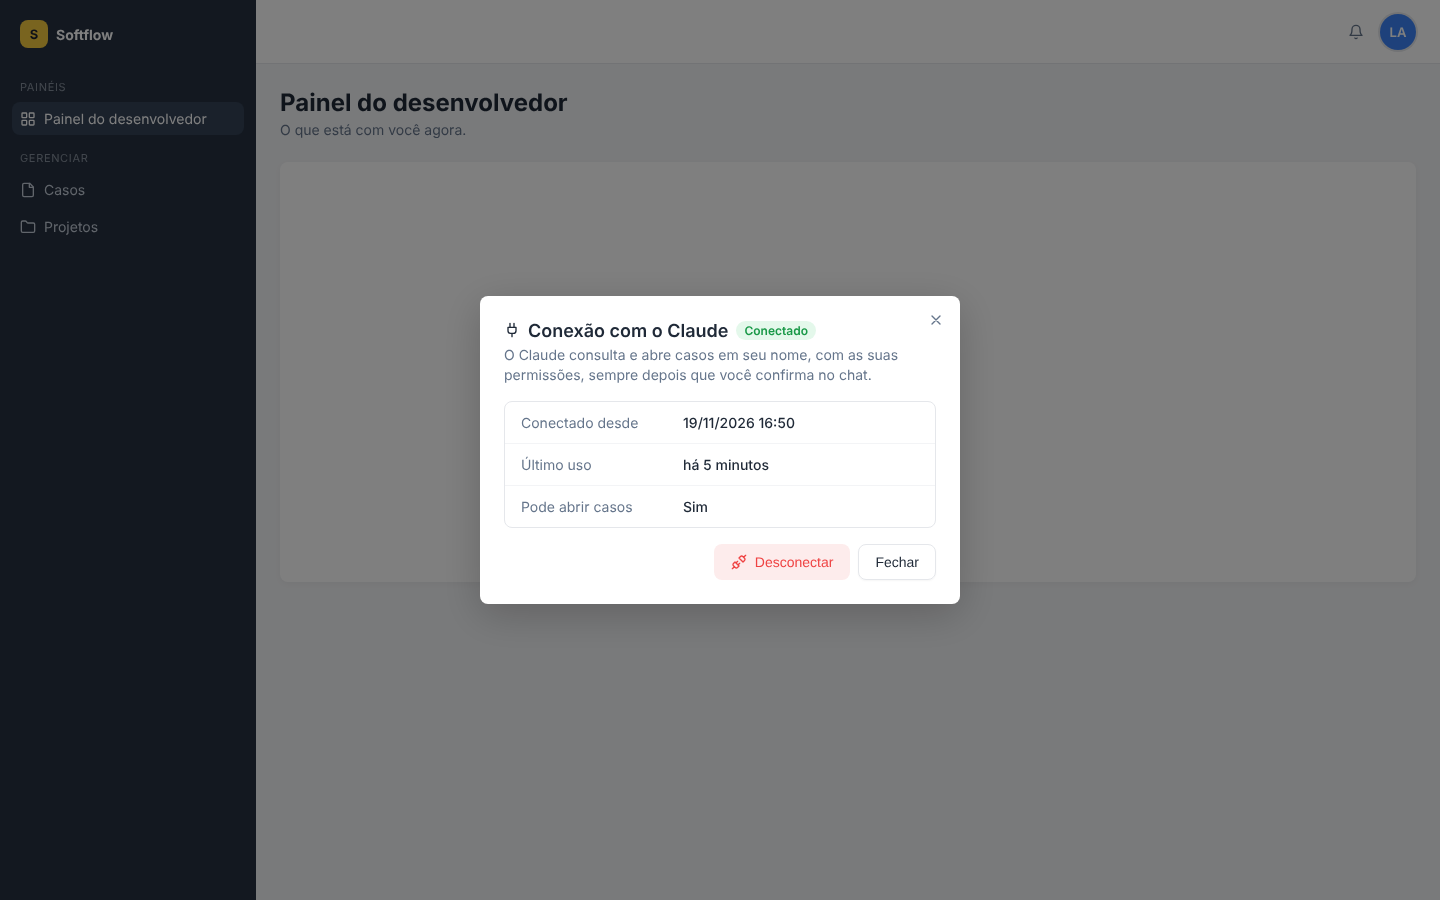
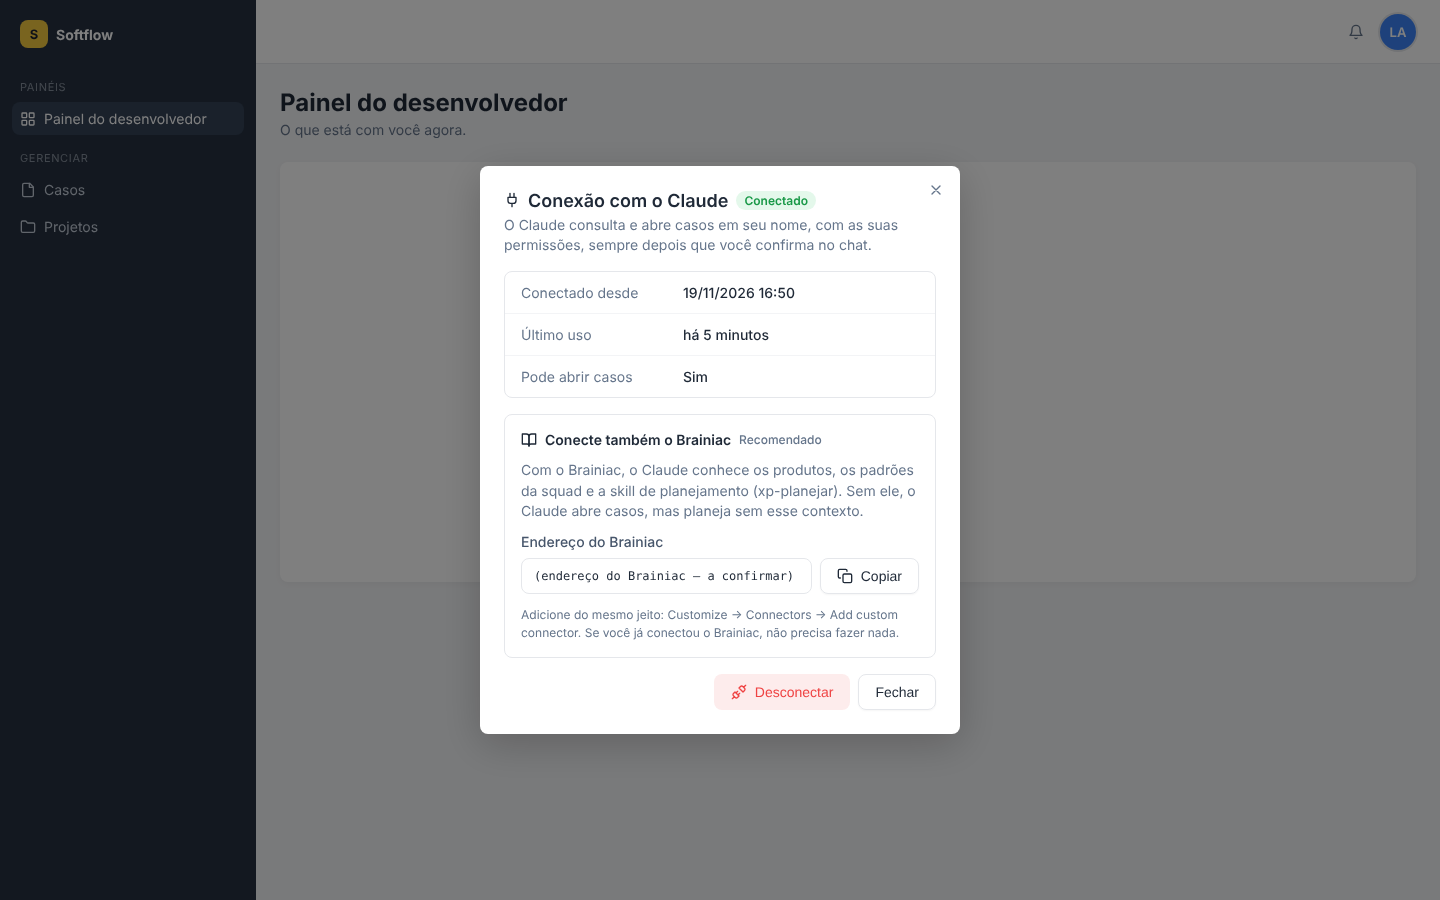
docs(conector-claude): próxima mudança planejada — contexto do Brainiac para quem conecta
Instruções do servidor MCP e softflow_eu apontam a skill xp-planejar do
catálogo do Brainiac; o modal "Conexão com o Claude" ganha o bloco
"Conecte também o Brainiac" (endereço por BRAINIAC_MCP_URL). Decisões
#16 a #18, protótipo e capturas 05, 07 e 09. Registra o teste no Claude
de verdade (caso 104203), move o conector para Em produção no status e
troca o domínio antigo do protótipo.

Claude-Session: https://claude.ai/code/session_01GaQZ7CaVWoarm8kGJnLeJC

Changed region(s): [[0.3125, 0.1867, 0.6875, 0.84]]

diff --git a/docs/conector-claude/prototipo/conector-claude-prototipo.html b/docs/conector-claude/prototipo/conector-claude-prototipo.html
@@ -5,7 +5,8 @@
 <meta name="viewport" content="width=device-width, initial-scale=1">
 <title>Softflow — Conector do Claude (protótipo)</title>
 <!--
-  Protótipo de planejamento (docs/conector-claude). Referência de estrutura e hierarquia.
+  Protótipo de planejamento (docs/conector-claude). 2026-11-25: bloco "Conecte também o Brainiac"
+  (decisão #17). O endereço do Brainiac aqui é um marcador: o real vem de BRAINIAC_MCP_URL (decisão #18). Referência de estrutura e hierarquia.
   As cores abaixo espelham os tokens de app/globals.css só para visualizar; no código usar as
   classes de token (bg-primary, text-text-primary, login-*, brand-yellow...). Nunca copiar hex.
 -->
@@ -118,6 +119,10 @@
   .url input{flex:1;height:36px;border:1px solid var(--bi);border-radius:8px;padding:0 12px;font-family:ui-monospace,monospace;font-size:12px;color:var(--tp);background:transparent}
   .note{font-size:12px;color:var(--ts);line-height:1.45;margin:0}
   .sk{background:var(--muted);border-radius:6px;height:14px}
+  .rec{border:1px solid var(--bi);border-radius:8px;padding:16px;display:flex;flex-direction:column;gap:12px}
+  .rec .h{display:flex;align-items:center;gap:8px;font-weight:600;color:var(--tp)}
+  .rec .tx{margin:0;color:var(--ts);line-height:1.45}
+  .dlg{max-height:calc(100vh - 32px);overflow:auto}
 
   /* mobile */
   @media (max-width:1023px){
@@ -155,6 +160,7 @@
   <symbol id="copy" viewBox="0 0 24 24"><rect x="9" y="9" width="13" height="13" rx="2"/><path d="M5 15H4a2 2 0 0 1-2-2V4a2 2 0 0 1 2-2h9a2 2 0 0 1 2 2v1"/></symbol>
   <symbol id="unplug" viewBox="0 0 24 24"><path d="m19 5 3-3M2 22l3-3M6.3 20.3a2.4 2.4 0 0 0 3.4 0L12 18l-6-6-2.3 2.3a2.4 2.4 0 0 0 0 3.4ZM7.5 13.5 10 11M10.5 16.5 13 14M12 6l6 6 2.3-2.3a2.4 2.4 0 0 0 0-3.4l-2.6-2.6a2.4 2.4 0 0 0-3.4 0Z"/></symbol>
   <symbol id="grid" viewBox="0 0 24 24"><rect x="3" y="3" width="7" height="7" rx="1"/><rect x="14" y="3" width="7" height="7" rx="1"/><rect x="3" y="14" width="7" height="7" rx="1"/><rect x="14" y="14" width="7" height="7" rx="1"/></symbol>
+  <symbol id="book" viewBox="0 0 24 24"><path d="M2 3h6a4 4 0 0 1 4 4v14a3 3 0 0 0-3-3H2z"/><path d="M22 3h-6a4 4 0 0 0-4 4v14a3 3 0 0 1 3-3h7z"/></symbol>
   <symbol id="file" viewBox="0 0 24 24"><path d="M14.5 2H6a2 2 0 0 0-2 2v16a2 2 0 0 0 2 2h12a2 2 0 0 0 2-2V7.5L14.5 2z"/><path d="M14 2v6h6"/></symbol>
   <symbol id="folder" viewBox="0 0 24 24"><path d="M4 20h16a2 2 0 0 0 2-2V8a2 2 0 0 0-2-2h-7.9a2 2 0 0 1-1.7-.9l-.8-1.2A2 2 0 0 0 7.9 3H4a2 2 0 0 0-2 2v13a2 2 0 0 0 2 2Z"/></symbol>
 </svg>
@@ -278,6 +284,15 @@
       <div class="row"><span class="k">Último uso</span><span class="v">há 5 minutos</span></div>
       <div class="row"><span class="k">Pode abrir casos</span><span class="v">Sim</span></div>
     </div>
+    <div class="rec" aria-labelledby="t-rec-c">
+      <div class="h" id="t-rec-c"><svg class="i"><use href="#book"/></svg>Conecte também o Brainiac <span style="font-weight:500;color:var(--ts);font-size:12px">Recomendado</span></div>
+      <p class="tx">Com o Brainiac, o Claude conhece os produtos, os padrões da squad e a skill de planejamento (xp-planejar). Sem ele, o Claude abre casos, mas planeja sem esse contexto.</p>
+      <div>
+        <div style="font-weight:500;color:var(--tl);margin-bottom:8px">Endereço do Brainiac</div>
+        <div class="url"><input readonly value="(endereço do Brainiac — a confirmar)" aria-label="Endereço do Brainiac"><button class="b b-out" aria-label="Copiar endereço do Brainiac"><svg class="i"><use href="#copy"/></svg>Copiar</button></div>
+      </div>
+      <p class="note">Adicione do mesmo jeito: Customize → Connectors → Add custom connector. Se você já conectou o Brainiac, não precisa fazer nada.</p>
+    </div>
     <div class="foot">
       <button class="b b-dsoft"><svg class="i"><use href="#unplug"/></svg>Desconectar</button>
       <button class="b b-out">Fechar</button>
@@ -310,12 +325,21 @@
     <ol class="steps">
       <li><span class="num">1</span><span>No Claude, abra <b>Customize → Connectors</b> e clique em <b>Add custom connector</b>.</span></li>
       <li><span class="num">2</span><span>Cole o endereço abaixo e clique em <b>Add</b>.</span></li>
-      <li><span class="num">3</span><span>Confira seus dados no Softflow e clique em <b>Permitir acesso</b>.</span></li>
+      <li><span class="num">3</span><span>Confira seus dados no Softflow, digite sua senha e clique em <b>Permitir acesso</b>.</span></li>
     </ol>
     <div>
       <div style="font-weight:500;color:var(--tl);margin-bottom:8px">Endereço do conector</div>
-      <div class="url"><input readonly value="https://softflow.softcom.services/api/mcp" aria-label="Endereço do conector"><button class="b b-out" aria-label="Copiar endereço"><svg class="i"><use href="#copy"/></svg>Copiar</button></div>
+      <div class="url"><input readonly value="https://softflow.hostsoftcom.cloud/api/mcp" aria-label="Endereço do conector"><button class="b b-out" aria-label="Copiar endereço"><svg class="i"><use href="#copy"/></svg>Copiar</button></div>
       <p class="note" style="margin-top:8px">Funciona em contas Pro e Max. No plano Free, o Claude aceita só um conector personalizado.</p>
+    </div>
+    <div class="rec" aria-labelledby="t-rec-s">
+      <div class="h" id="t-rec-s"><svg class="i"><use href="#book"/></svg>Conecte também o Brainiac <span style="font-weight:500;color:var(--ts);font-size:12px">Recomendado</span></div>
+      <p class="tx">Com o Brainiac, o Claude conhece os produtos, os padrões da squad e a skill de planejamento (xp-planejar). Sem ele, o Claude abre casos, mas planeja sem esse contexto.</p>
+      <div>
+        <div style="font-weight:500;color:var(--tl);margin-bottom:8px">Endereço do Brainiac</div>
+        <div class="url"><input readonly value="(endereço do Brainiac — a confirmar)" aria-label="Endereço do Brainiac"><button class="b b-out" aria-label="Copiar endereço do Brainiac"><svg class="i"><use href="#copy"/></svg>Copiar</button></div>
+      </div>
+      <p class="note">Adicione do mesmo jeito: Customize → Connectors → Add custom connector. Se você já conectou o Brainiac, não precisa fazer nada.</p>
     </div>
     <div class="foot"><button class="b b-out">Fechar</button></div>
   </div>

diff --git a/docs/conector-claude/README.md b/docs/conector-claude/README.md
@@ -3,8 +3,12 @@
 > **Estado: em produção desde 2026-11-19** (`https://softflow.hostsoftcom.cloud/api/mcp`).
 > Conferido no domínio público: metadados, `401` com `WWW-Authenticate`, registro do cliente,
 > token endpoint com o banco de produção e a tela de autorização (cabeçalhos e volta pelo login).
-> **Falta o teste no Claude de verdade** (conectar com a conta de alguém e abrir um caso). Decisões
-> em [`decisoes.md`](decisoes.md); protótipo em [`prototipo/`](prototipo/).
+> Testado no Claude de verdade em 2026-11-19 (caso 104203, aberto pelo conector). Decisões em
+> [`decisoes.md`](decisoes.md); protótipo em [`prototipo/`](prototipo/).
+>
+> **Há uma [próxima mudança planejada](#próxima-mudança-planejada-contexto-do-brainiac-para-quem-conecta)**
+> (2026-11-25): recomendar o Brainiac no modal e apontar a skill `xp-planejar` nas instruções do
+> servidor. Implementar com `/implementar conector-claude`.
 
 ## O que é
 
@@ -39,6 +43,95 @@ caso **não planejado**.
 
 No Softflow, a conexão aparece e é desfeita pelo menu do usuário → **Claude** → modal
 **Conexão com o Claude** (decisão #10).
+
+## Próxima mudança planejada: contexto do Brainiac para quem conecta
+
+> **Estado: planejado** (chat de planejamento, 2026-11-25). Decisões #16 a #18 em
+> [`decisoes.md`](decisoes.md); protótipo atualizado em [`prototipo/`](prototipo/) (capturas
+> `05`, `07` e `09`).
+
+### Problema
+
+Quem conecta só o Softflow consegue abrir caso, mas o Claude dela não conhece os produtos, os
+padrões da squad nem o jeito de planejar e escrever o caso. Esse contexto está no Brainiac: as notas
+dos produtos e, a partir de agora, a skill **`xp-planejar`** no catálogo de skills de Engenharia
+(proposta enviada em 2026-11-25, `e95ba449-2946-4520-8fdd-95c977fe2941`, aguardando revisão e
+publicação). Cada pessoa usa conta pessoal do Claude (decisão #12), então não existe configuração
+central que entregue isso: cada uma precisa conectar o Brainiac, e o Claude precisa saber que deve
+ler a skill de lá.
+
+### O que muda
+
+1. **Instruções do servidor MCP** (`INSTRUCOES` em `lib/conector-claude/mcp/servidor.ts`), decisão
+   #16. Acrescentar ao texto atual, sem mexer nas três linhas que já existem:
+
+   ```text
+   Para planejar uma funcionalidade ou escrever o texto de um caso, use a skill xp-planejar do
+   catálogo do Brainiac: se as ferramentas do Brainiac estiverem na conversa, leia-a com
+   brainiac_skills_list (vault "engenharia", busca "xp-planejar") e brainiac_skill_read antes de
+   começar, e siga o passo 7 dela para abrir o caso. Se o Brainiac não estiver conectado, avise a
+   pessoa uma vez que o planejamento fica sem o contexto dos produtos e que ela pode conectá-lo
+   (o endereço está no Softflow, menu do usuário → Claude). Abrir um caso já planejado não depende
+   do Brainiac.
+   ```
+
+   Se a skill ainda não estiver publicada no catálogo, a busca volta vazia e o Claude segue com as
+   regras deste servidor; não há erro a tratar no Softflow.
+
+2. **`softflow_eu`** (decisão #16): depois de "Pode abrir casos: …", uma linha fixa
+   `Contexto dos produtos: conecte também o Brainiac e use a skill xp-planejar do catálogo dele.`
+   É o lembrete que o Claude vê mesmo quando o cliente não repassa as instruções do servidor.
+
+3. **Modal "Conexão com o Claude"** (`components/conector-claude/conexao-modal/index.tsx`), decisão
+   #17. Bloco novo **Recomendado: conecte também o Brainiac**, nos dois estados (conectado e sem
+   conexão), logo acima da linha de botões:
+   - quadro com borda (`rounded-lg border border-border-input p-4`, mesmo padrão do quadro de erro do
+     modal), ícone `BookOpen` (lucide) e o título **Conecte também o Brainiac**;
+   - texto: "Com o Brainiac, o Claude conhece os produtos, os padrões da squad e a skill de
+     planejamento (xp-planejar). Sem ele, o Claude abre casos, mas planeja sem esse contexto.";
+   - **Endereço do Brainiac** com o mesmo componente de endereço + **Copiar** do conector (extrair o
+     bloco atual de `SemConexao` para um componente `EnderecoCopiavel` reaproveitado pelos dois);
+   - nota: "Adicione do mesmo jeito: Customize → Connectors → Add custom connector. Se você já
+     conectou o Brainiac, não precisa fazer nada.";
+   - o Softflow não sabe se a pessoa conectou o Brainiac no Claude (decisão #17), então o bloco é
+     sempre igual, sem pílula de status.
+   - Sem cor nova: só tokens que o modal já usa (`border-border-input`, `text-text-primary`,
+     `text-text-secondary`, `text-text-label`, `bg-muted`).
+   - Mobile (390px): o bloco empilha como o resto do modal; o modal passa a rolar dentro do
+     `DialogContent` se a altura não couber (conferir com o estado "sem conexão", que é o mais alto).
+
+4. **Endereço do Brainiac por variável** (decisão #18): `BRAINIAC_MCP_URL` em `lib/conector-claude/config.ts`
+   (função `getBrainiacMcpUrl()`), exposto pelo `GET /api/db/claude-conexao` como
+   `enderecoBrainiac`. Sem a variável, o bloco aparece sem o endereço (só o texto e a nota) e o
+   Copiar some. Documentar a variável em [`deploy/`](../deploy/README.md#conector-do-claude-apimcp).
+
+5. **Protótipo**: o endereço antigo (`softflow.softcom.services`) do protótipo foi trocado pelo atual
+   (decisão #13) neste planejamento.
+
+### Fora do escopo
+
+- Detectar se a pessoa conectou o Brainiac (o Softflow não tem como saber; decisão #17).
+- Instalar a skill na conta da pessoa: ela é lida do catálogo do Brainiac pelo próprio Claude.
+- Publicar a `xp-planejar` no Brainiac: é revisão e publicação administrativa do Brainiac, fora deste
+  repositório.
+
+### Perguntas em aberto
+
+1. **(PO)** Qual é o endereço do servidor MCP do Brainiac que as pessoas cadastram no Claude? Vai
+   para `BRAINIAC_MCP_URL` no deploy. Enquanto não houver, o bloco aparece sem endereço (item 4).
+
+### Plano de implementação
+
+Um commit, na `dev`, escopo `(conector-claude)`:
+
+1. `BRAINIAC_MCP_URL` + `getBrainiacMcpUrl()`; `enderecoBrainiac` no `GET /api/db/claude-conexao` e
+   no tipo `ClaudeConexaoStatus`.
+2. `INSTRUCOES` e a linha do `softflow_eu`.
+3. `EnderecoCopiavel` e o bloco do Brainiac no modal, nos dois estados.
+4. Conferir: `npm run lint`, `npm run build`, modal nos dois estados com e sem `BRAINIAC_MCP_URL`
+   (desktop e 390px) e o texto novo do `softflow_eu` pelo cliente MCP do SDK.
+5. Ao concluir: integrar esta seção ao README no formato padrão (O que é / Ferramentas / Como fica
+   para quem usa), tirar o "Estado: planejado" e mover o item no status.
 
 ## Arquitetura
 
@@ -161,11 +254,13 @@ MCP do SDK, incluindo abertura simultânea sem duplicar; menu, modal e desconect
 
 Pendente:
 
-- Teste no Claude de verdade: adicionar o conector, autorizar com a senha, preparar e abrir um
-  caso de teste. Em produção já foram conferidos (2026-11-19) os metadados, o `401`, o registro
-  (cliente de teste "Claude (teste de produção)" criado em `oauth_clientes`), o token endpoint e a
-  tela de autorização até o login.
-- Ajustar o passo 7 da skill `planejar-softcom` para abrir o caso pelo conector (fora deste repo).
+- ~~Teste no Claude de verdade~~: feito em 2026-11-19 pelo usuário. O Claude conectado
+  identificou a pessoa (`softflow_eu`), resolveu produto, versão, projeto e dev pelo nome, mostrou a
+  prévia e, depois do ok, abriu o caso **104203** (produto Softflow, versão MELHORIA, projeto 3278);
+  a consulta pelo número confirmou o caso igual à prévia.
+- ~~Passo 7 da skill `planejar-softcom`~~: ajustado em 2026-11-25 (abre o caso pelo conector e, sem
+  ele, entrega o texto para colar). A mesma skill foi proposta ao catálogo do Brainiac como
+  `xp-planejar` (ver "Próxima mudança planejada").
 - O aviso "Claude desconectado" foi corrigido (`mutateAsync`) depois do teste e não foi reconferido.
 - Casos de teste criados na API de dev, para excluir: 104140, 104141, 104143.
 

diff --git a/docs/status-projeto-softflow.md b/docs/status-projeto-softflow.md
@@ -39,18 +39,10 @@ coberto.
 | Notificações no Discord | [`casos/`](casos/README.md), [`reports/`](reports/README.md) | Caso concluído (2026-08-24); opção de desativar por usuário (2026-08-24) |
 | Anexos no S3 da Softcom | [`camada-de-dados/`](camada-de-dados/README.md) | Troca de bucket (2026-10-07); aba de anexos (2026-10-07) |
 | Deploy na VPS (Swarm + GitHub Actions) | [`deploy/`](deploy/README.md) | Ambiente Docker (2026-08-14); doc ajustada (2026-10-13) |
+| Conector do Claude: abrir e consultar casos pelo chat (`/api/mcp`) | [`conector-claude/`](conector-claude/README.md) | Publicado (2026-11-19); teste ponta a ponta no Claude de verdade (2026-11-19): conexão, catálogos, prévia, abertura do caso 104203 e consulta |
 
 ## 🟡 Implementado, ainda não testado de ponta a ponta
 
-- **Conector do Claude: abrir casos pelo chat** (2026-11-19, em produção; teste no Claude pendente). Servidor
-  MCP `/api/mcp` com OAuth próprio (metadados, DCR, `/oauth/autorizar` com senha, token com PKCE e
-  rotação), cinco ferramentas (eu, buscar opções, preparar prévia, abrir caso idempotente,
-  consultar caso) e o item "Claude" no menu do usuário com o modal de conexão. Migração `0011`
-  aplicada no banco do `.env`. Testado no dev server com o cliente MCP do SDK e no navegador;
-  Publicado com as variáveis na VPS; no domínio público conferidos metadados, `401`, registro,
-  token endpoint e tela de autorização. **Falta testar no Claude de verdade** (conectar e abrir um
-  caso). Ajustar depois o passo 7 da skill
-  `planejar-softcom`. Ver [`conector-claude/`](conector-claude/README.md).
 - **Padrão único de gatilho de select/combobox** (2026-11-19, na `dev`). Combobox
   (`components/ui/combobox.tsx`), multi-selects (`components/ui/v2/combobox2.tsx`, input e chips)
   e o seletor de mês seguem o `SelectTrigger`: seta só para baixo, sem fundo no hover, fundo
@@ -207,6 +199,11 @@ usuário):
 Especificação aprovada e ainda não implementada fica em `docs/<slug>/README.md` com **"Estado:
 planejado"** (ou com a seção "Próxima mudança planejada") e aparece aqui.
 
+- **Conector do Claude: contexto do Brainiac para quem conecta** (planejado em 2026-11-25). As
+  instruções do servidor MCP e o `softflow_eu` passam a apontar a skill `xp-planejar` do catálogo
+  do Brainiac, e o modal "Conexão com o Claude" ganha o bloco "Conecte também o Brainiac" com o
+  endereço vindo de `BRAINIAC_MCP_URL`. Ver "Próxima mudança planejada" em
+  [`conector-claude/`](conector-claude/README.md); falta o endereço do MCP do Brainiac.
 - **Avisos: rascunhos e avisos enviados**: o botão "Salvar rascunho" ficou fora do envio de
   avisos até existir uma tela para ver e retomar rascunhos e enviados (decisão #13 de
   [`avisos/`](avisos/decisoes.md)).

diff --git a/docs/conector-claude/decisoes.md b/docs/conector-claude/decisoes.md
@@ -94,3 +94,22 @@ Claude, 2026-11-19, com protótipo em [`prototipo/`](prototipo/).
     conhecido e o formulário da tela também não valida tamanho (`casoCreateFormSchema` só exige
     `min(1)`); escolha do usuário em 2026-11-19 (opção B da P2). Ajusta a promessa da decisão #6:
     o caso, se criado, é exatamente o da prévia; a recusa por tamanho só aparece na abertura.
+
+16. **O próprio conector aponta para o contexto do Brainiac.** As instruções do servidor MCP mandam
+    o Claude ler a skill `xp-planejar` do catálogo do Brainiac antes de planejar ou escrever um caso,
+    e avisar uma vez quando o Brainiac não estiver conectado; o `softflow_eu` repete o lembrete numa
+    linha fixa. Abrir um caso já planejado continua não dependendo do Brainiac. **Por quê:** cada
+    pessoa usa conta pessoal do Claude (decisão #12), sem configuração central. O conector é a única
+    coisa que toda pessoa que abre caso pelo Claude tem, então é por ele que o caminho chega a quem
+    é novo, sem instalar skill (planejamento de 2026-11-25).
+
+17. **O modal "Conexão com o Claude" recomenda conectar o Brainiac, nos dois estados, sempre com o
+    mesmo bloco.** **Por quê:** o usuário quer deixar explícito para quem conecta que o Brainiac
+    faz falta para planejar. O Softflow não tem como saber se a pessoa conectou o Brainiac no Claude
+    dela, então o bloco não mostra status nem some; o texto diz que, se já conectou, não precisa
+    fazer nada.
+
+18. **O endereço do Brainiac no modal vem da variável `BRAINIAC_MCP_URL`**, como o endereço do
+    conector vem de `SOFTFLOW_PUBLIC_URL` (decisão #13). Sem a variável, o bloco aparece sem
+    endereço. **Por quê:** o endereço é de outro sistema (Squad IA) e pode mudar sem deploy de código
+    no Softflow; o bloco continua útil mesmo sem ele.
